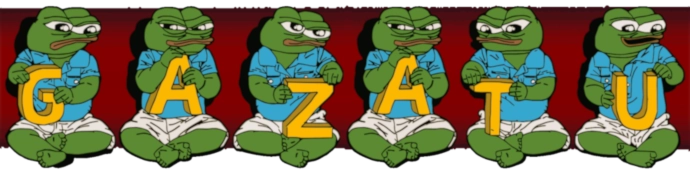
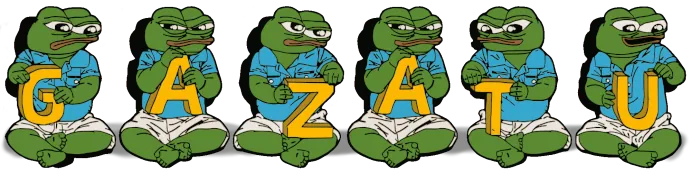
fix apus

diff --git a/src/pages/Home.tsx b/src/pages/Home.tsx
@@ -5,7 +5,7 @@ import A from "../ui/A"
 import Button from "../ui/Button"
 import ImgWithPlaceholder from "../ui/ImgWithPlaceholder"
 import Section from "../ui/Section"
-import gazatuApus from "../assets/gazatu-apus3.webp"
+import gazatuApus from "../assets/gazatu-apus.webp"
 import Column from "../ui/Column"
 import { rounded } from "../ui/util/shapes"
 
